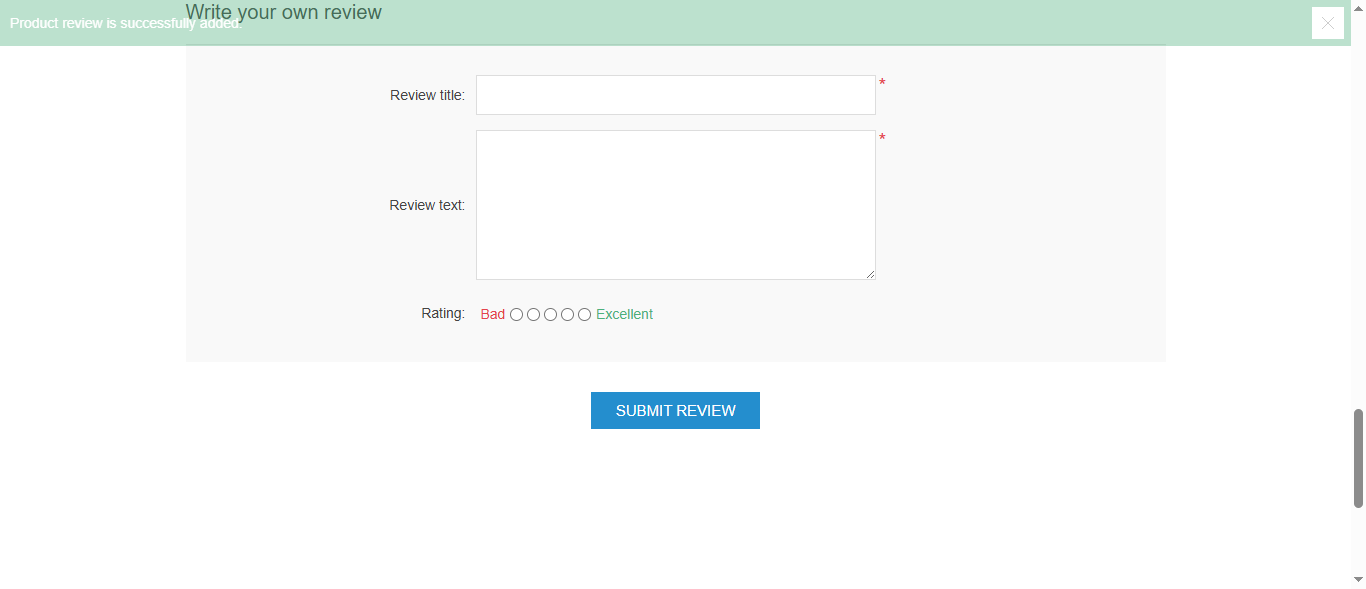
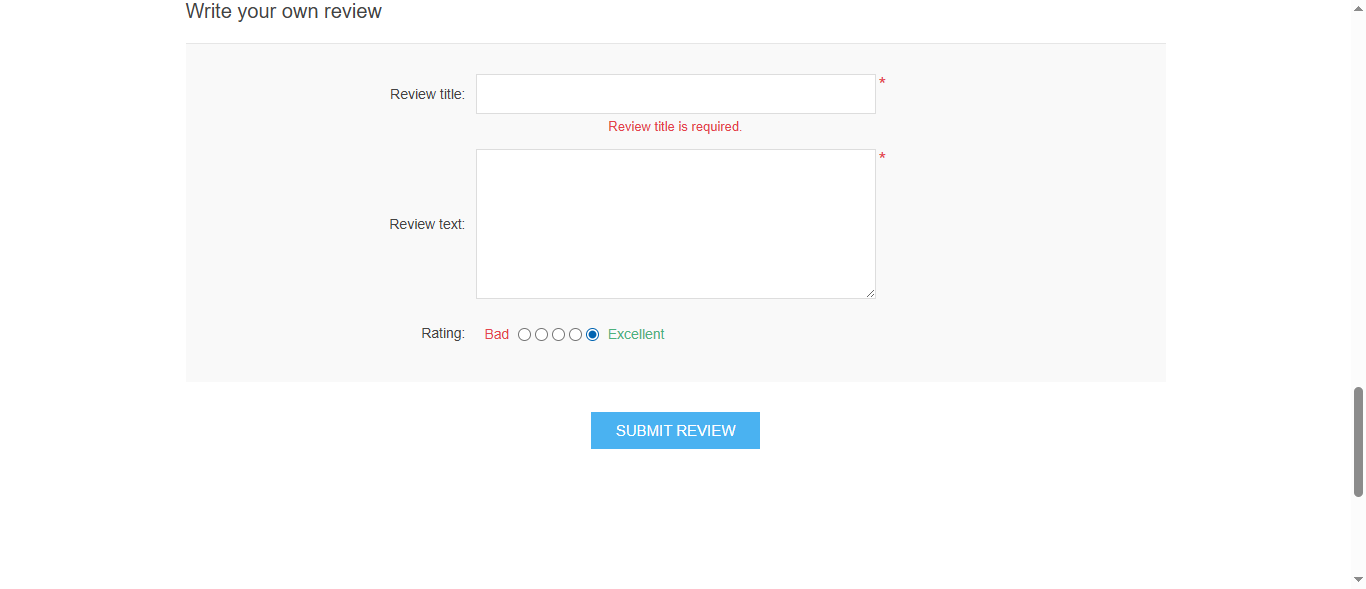
added test review product fail

diff --git a/report/report.html b/report/report.html
@@ -35,7 +35,7 @@
 <a href="#"><span class="badge badge-primary"></span></a>
 </li>
 <li class="m-r-10">
-<a href="#"><span class="badge badge-primary">Aug 22, 2025 02:32:27 AM</span></a>
+<a href="#"><span class="badge badge-primary">Aug 22, 2025 03:20:56 PM</span></a>
 </li>
 </ul>
 </div>
@@ -81,7 +81,7 @@
           <div class="test-detail">
             <p class="name">testRegisterSuccessfully</p>
             <p class="text-sm">
-              <span>2:32:37 AM</span> / <span>00:00:00:008</span>
+              <span>3:21:06 PM</span> / <span>00:00:00:018</span>
               <span class="badge pass-bg log float-right">Pass</span>
             </p>
           </div>
@@ -90,9 +90,9 @@
 <div class="p-v-10">
 <div class="info">
 <h5 class="test-status text-pass">testRegisterSuccessfully</h5>
-<span class='badge badge-success'>08.22.2025 2:32:37 AM</span>
-<span class='badge badge-danger'>08.22.2025 2:32:37 AM</span>
-<span class='badge badge-default'>00:00:00:008</span>
+<span class='badge badge-success'>08.22.2025 3:21:06 PM</span>
+<span class='badge badge-danger'>08.22.2025 3:21:06 PM</span>
+<span class='badge badge-default'>00:00:00:018</span>
 &middot; <span class='uri-anchor badge badge-default'>#test-id=1</span>
 <span title='Skip to the next failed step' class='badge badge-danger pointer float-right ne ml-1'><i class="fa fa-fast-forward"></i></span>
 <span title='Collapse all nodes' class='badge badge-default pointer float-right ct ml-1'><i class="fa fa-compress"></i></span>
@@ -109,7 +109,7 @@
   <tbody>
       <tr class="event-row">
         <td><span class="badge log pass-bg">Pass</span></td>
-        <td>2:32:37 AM</td>
+        <td>3:21:06 PM</td>
         <td>
           Test Pass
         </td>
@@ -126,7 +126,7 @@
           <div class="test-detail">
             <p class="name">testLoginSuccessfully</p>
             <p class="text-sm">
-              <span>2:32:38 AM</span> / <span>00:00:00:000</span>
+              <span>3:21:08 PM</span> / <span>00:00:00:000</span>
               <span class="badge pass-bg log float-right">Pass</span>
             </p>
           </div>
@@ -135,8 +135,8 @@
 <div class="p-v-10">
 <div class="info">
 <h5 class="test-status text-pass">testLoginSuccessfully</h5>
-<span class='badge badge-success'>08.22.2025 2:32:38 AM</span>
-<span class='badge badge-danger'>08.22.2025 2:32:38 AM</span>
+<span class='badge badge-success'>08.22.2025 3:21:08 PM</span>
+<span class='badge badge-danger'>08.22.2025 3:21:08 PM</span>
 <span class='badge badge-default'>00:00:00:000</span>
 &middot; <span class='uri-anchor badge badge-default'>#test-id=2</span>
 <span title='Skip to the next failed step' class='badge badge-danger pointer float-right ne ml-1'><i class="fa fa-fast-forward"></i></span>
@@ -154,7 +154,7 @@
   <tbody>
       <tr class="event-row">
         <td><span class="badge log pass-bg">Pass</span></td>
-        <td>2:32:38 AM</td>
+        <td>3:21:08 PM</td>
         <td>
           Test Pass
         </td>
@@ -171,7 +171,7 @@
           <div class="test-detail">
             <p class="name">testSearchTheProduct</p>
             <p class="text-sm">
-              <span>2:32:41 AM</span> / <span>00:00:00:001</span>
+              <span>3:21:11 PM</span> / <span>00:00:00:000</span>
               <span class="badge pass-bg log float-right">Pass</span>
             </p>
           </div>
@@ -180,9 +180,9 @@
 <div class="p-v-10">
 <div class="info">
 <h5 class="test-status text-pass">testSearchTheProduct</h5>
-<span class='badge badge-success'>08.22.2025 2:32:41 AM</span>
-<span class='badge badge-danger'>08.22.2025 2:32:41 AM</span>
-<span class='badge badge-default'>00:00:00:001</span>
+<span class='badge badge-success'>08.22.2025 3:21:11 PM</span>
+<span class='badge badge-danger'>08.22.2025 3:21:11 PM</span>
+<span class='badge badge-default'>00:00:00:000</span>
 &middot; <span class='uri-anchor badge badge-default'>#test-id=3</span>
 <span title='Skip to the next failed step' class='badge badge-danger pointer float-right ne ml-1'><i class="fa fa-fast-forward"></i></span>
 <span title='Collapse all nodes' class='badge badge-default pointer float-right ct ml-1'><i class="fa fa-compress"></i></span>
@@ -199,7 +199,7 @@
   <tbody>
       <tr class="event-row">
         <td><span class="badge log pass-bg">Pass</span></td>
-        <td>2:32:41 AM</td>
+        <td>3:21:11 PM</td>
         <td>
           Test Pass
         </td>
@@ -216,7 +216,7 @@
           <div class="test-detail">
             <p class="name">testAddReviewSuccessfully</p>
             <p class="text-sm">
-              <span>2:32:43 AM</span> / <span>00:00:00:000</span>
+              <span>3:21:17 PM</span> / <span>00:00:00:003</span>
               <span class="badge pass-bg log float-right">Pass</span>
             </p>
           </div>
@@ -225,9 +225,9 @@
 <div class="p-v-10">
 <div class="info">
 <h5 class="test-status text-pass">testAddReviewSuccessfully</h5>
-<span class='badge badge-success'>08.22.2025 2:32:43 AM</span>
-<span class='badge badge-danger'>08.22.2025 2:32:43 AM</span>
-<span class='badge badge-default'>00:00:00:000</span>
+<span class='badge badge-success'>08.22.2025 3:21:17 PM</span>
+<span class='badge badge-danger'>08.22.2025 3:21:17 PM</span>
+<span class='badge badge-default'>00:00:00:003</span>
 &middot; <span class='uri-anchor badge badge-default'>#test-id=4</span>
 <span title='Skip to the next failed step' class='badge badge-danger pointer float-right ne ml-1'><i class="fa fa-fast-forward"></i></span>
 <span title='Collapse all nodes' class='badge badge-default pointer float-right ct ml-1'><i class="fa fa-compress"></i></span>
@@ -244,7 +244,7 @@
   <tbody>
       <tr class="event-row">
         <td><span class="badge log pass-bg">Pass</span></td>
-        <td>2:32:43 AM</td>
+        <td>3:21:17 PM</td>
         <td>
           Test Pass
         </td>
@@ -268,13 +268,13 @@
 <div class="col-md-3">
 <div class="card"><div class="card-body">
 <p class="m-b-0">Started</p>
-<h3>Aug 22, 2025 02:32:27 AM</h3>
+<h3>Aug 22, 2025 03:20:56 PM</h3>
 </div></div>
 </div>
 <div class="col-md-3">
 <div class="card"><div class="card-body">
 <p class="m-b-0">Ended</p>
-<h3>Aug 22, 2025 02:32:44 AM</h3>
+<h3>Aug 22, 2025 03:21:18 PM</h3>
 </div></div>
 </div>
 <div class="col-md-3">
@@ -344,7 +344,7 @@
 </div></div>
 <script>
 var timeline = {
-"testRegisterSuccessfully":0.008,"testLoginSuccessfully":0,"testSearchTheProduct":0.001,"testAddReviewSuccessfully":0
+"testRegisterSuccessfully":0.018,"testLoginSuccessfully":0,"testSearchTheProduct":0,"testAddReviewSuccessfully":0.003
 };
 </script>
 <div class="row">

diff --git a/src/test/java/addReview/AddReviewTestFail.java b/src/test/java/addReview/AddReviewTestFail.java
@@ -7,13 +7,12 @@ import org.testng.annotations.Test;
 import pages.IPhonePage;
 import pages.LoginPage;
 import pages.RegisterPage;
+
 import static org.testng.Assert.assertTrue;
 
-public class AddReviewTestPass extends BaseTests {
+public class AddReviewTestFail extends BaseTests {
 
-    Faker faker;  String email;  String password;  String product;  String fName;  String lName; String reviewTitle;
-    String reviewText;
-
+    Faker faker;  String email;  String password;  String product;  String fName;  String lName;  String reviewText;
     IPhonePage iPhonePage;
 
     @BeforeClass
@@ -21,11 +20,12 @@ public class AddReviewTestPass extends BaseTests {
         faker = new Faker();
 
         fName = faker.name().firstName();  lName = faker.name().lastName();  email = faker.internet().emailAddress();
-        reviewTitle = faker.commerce().material(); reviewText = faker.commerce().material();
+        reviewText = faker.commerce().material();
         password = faker.internet().password(8, 12,
                 true, true, true);
         product = "apple";
     }
+
     @Test(priority = 1)
     public void testRegisterSuccessfully() {
 
@@ -43,11 +43,13 @@ public class AddReviewTestPass extends BaseTests {
         iPhonePage = homePage.searchForProduct(product);
     }
     @Test(priority = 4)
-    public void testAddReviewSuccessfully(){
-        iPhonePage.addReviewForIPhone(reviewTitle , reviewText);
-        String actualResult = iPhonePage.getValidationMessage();
-        String expectedResult = "Product review is successfully added.";
+    public void testAddReviewSuccessfully() throws InterruptedException {
+        iPhonePage.addReviewForIPhoneFail(reviewText);
+        String actualResult = iPhonePage.getValidationMessageFail();
+        String expectedResult = "Review title is required.";
         assertTrue(actualResult.contains(expectedResult));
+        Thread.sleep(5000);
     }
+
 
 }

diff --git a/src/main/java/pages/IPhonePage.java b/src/main/java/pages/IPhonePage.java
@@ -13,6 +13,9 @@ public class IPhonePage extends MethodHandling{
     private By submitReviewButton = By.id("add-review");
     private By reviewSuccessfullyAddedMessage =
             By.xpath("//p[contains(text() ,'Product review is successfully added.')]");
+    private By requiredTitleReviewMessage =
+            By.xpath("//span[contains(text() ,'Review title is required.')]");
+
     public IPhonePage(WebDriver driver) {
         super(driver);
     }
@@ -25,7 +28,17 @@ public class IPhonePage extends MethodHandling{
         click(rating);
         click(submitReviewButton);
     }
+    public void addReviewForIPhoneFail(String reviewText){
+
+        click(addReviewLinkText);
+        sendKeys(reviewTextBox, reviewText);
+        click(rating);
+        click(submitReviewButton);
+    }
     public String getValidationMessage(){
         return getText(reviewSuccessfullyAddedMessage);
+    }
+    public String getValidationMessageFail(){
+        return getText(requiredTitleReviewMessage);
     }
 }
